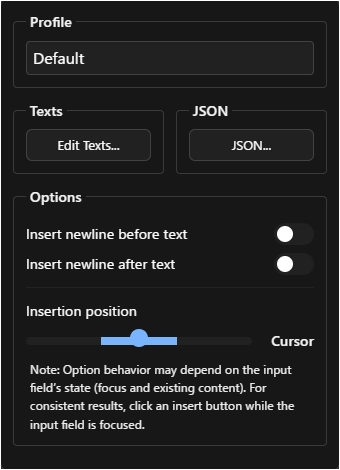
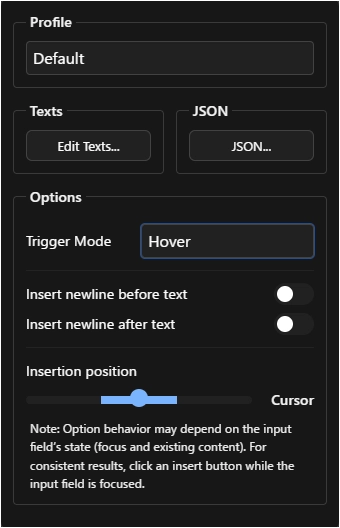
docs: update info for [QTB] v2.2.0

diff --git a/README.md b/README.md
@@ -20,6 +20,9 @@ Each script is developed independently and can be installed separately.
 
 ## Recent Updates
 
+### 2025/12/03
+- Updated `Quick Text Buttons` (v2.1.0 -> v2.2.0)
+
 ### 2025/12/02
 - Updated `ChatGPT UX Customizer`/`Gemini UX Customizer` (v2.0.0 -> v2.1.0)
 - Updated `Quick Text Buttons` (v2.0.0 -> v2.1.0)
@@ -61,11 +64,11 @@ A utility script that adds buttons to quickly insert predefined text or prompts.
 
 | Platform | GitHub | Greasy Fork | Version | Last Updated | Changelog |
 | :--- | :--- | :--- | :--- | :--- | :--- |
-| **ChatGPT** & **Gemini** | [![Download](https://img.shields.io/badge/Download-blue?style=flat-square&logo=download)](https://raw.githubusercontent.com/p65536/AI-UX-Customizer/main/scripts/Quick-Text-Buttons/Quick-Text-Buttons.user.js) | [![Greasy Fork](https://img.shields.io/badge/Install-green?style=flat-square&logo=greasyfork)](https://greasyfork.org/en/scripts/544699-quick-text-buttons) | 2.1.0 | 2025/12/02 | [View](./docs/Quick-Text-Buttons/CHANGELOG_QTBUX.md) |
+| **ChatGPT** & **Gemini** | [![Download](https://img.shields.io/badge/Download-blue?style=flat-square&logo=download)](https://raw.githubusercontent.com/p65536/AI-UX-Customizer/main/scripts/Quick-Text-Buttons/Quick-Text-Buttons.user.js) | [![Greasy Fork](https://img.shields.io/badge/Install-green?style=flat-square&logo=greasyfork)](https://greasyfork.org/en/scripts/544699-quick-text-buttons) | 2.2.0 | 2025/12/03 | [View](./docs/Quick-Text-Buttons/CHANGELOG_QTBUX.md) |
 
 **[View Detailed Features & Manual for Quick Text Buttons](./docs/Quick-Text-Buttons/README.md)**
 
-![Quick Text Buttons Showcase Image](./docs/Quick-Text-Buttons/images/qtb_button_hover.webp) 
+![Quick Text Buttons Showcase Image](./docs/Quick-Text-Buttons/images/qtb_open_textlist.webp) 
 
 ---
 

diff --git a/docs/Quick-Text-Buttons/README.md b/docs/Quick-Text-Buttons/README.md
@@ -31,17 +31,17 @@ Currently, it supports the following AI services:
 
 ## Screenshots
 
-### 1. Unified Action Button & Text Menu
+### 1. Text List
 
-When you hover over the button:  
-![Text Insertion Menu](./images/qtb_button_hover.webp)
+When you **Hover** (or **Click**, depending on settings) over the button:  
+![Text Insertion Menu](./images/qtb_open_textlist.webp)
 
 * **Perfect Match:** Works seamlessly with [**UX Customizer**](../UX-Customizer/README.md) to enhance the visual interface and navigation.
 
 ### 2. Settings Panel
 
-When you click the button:  
-![Settings Panel](./images/qtb_button_click.webp)
+When you Right-click the button:  
+![Settings Panel](./images/qtb_open_settings_panel.webp)
 
 ### 3. Text Editor Modal
 
@@ -52,8 +52,8 @@ When you click the button:
 ## How to Use
 
 * **Access**: The **Quick Text button** (pen icon) is located at the bottom-left of the chat input field.
-* **Insert Text**: **Hover** over the button to display the list of registered texts. Clicking an item will insert it into the input field.
-* **Settings**: **Click** the button to open the **Settings Panel**, where you can edit texts, manage profiles, and change options.
+* **Insert Text**: **Hover** (or **Click**, depending on settings) over the button to display the list of registered texts. Clicking an item will insert it into the input field.
+* **Settings**: **Right-click** the button to open the **Settings Panel**, where you can edit texts, manage profiles, and change options.
 * **Import/Export**: If needed, use the "JSON" button in the settings panel to export your current settings or import sample settings.
 
 ---

diff --git a/docs/Quick-Text-Buttons/settings.md b/docs/Quick-Text-Buttons/settings.md
@@ -2,12 +2,12 @@
 
 ## Settings Screen
 
-### 1. Click the Quick Text button to open the settings panel
+### 1. Right-Click the Quick Text button to open the settings panel
 
-The **Quick Text button** (pen icon) is located at the bottom-left of the chat input field.
-Clicking this button opens the settings panel (Hovering over it opens the text insertion list).
+The **Quick Text button** (pen icon) is located at the bottom-left of the chat input field.  
+Right-clicking this button opens the settings panel.
 
-Click the button:  
+Right-click the button:  
 ![Settings Panel](./images/qtb_button.webp)
 
 ### 2. Settings Panel Items
@@ -20,6 +20,7 @@ Click the button:
 | **Texts** | Opens the "Text Editor Modal" to create, edit, and delete texts. |
 | **JSON** | Opens the screen to directly edit, import, and export all settings in JSON format. |
 | **Options** | **Settings for text insertion behavior** |
+| `Trigger Mode` | Choose between "Hover" or "Click" to open the text list. |
 | `Insert newline before text` | Adds one newline character before inserting the text. |
 | `Insert newline after text` | Adds one newline character after inserting the text. |
 | `Insertion position` | Selects the text insertion position from "Start of the input field," "Current cursor position," or "End of the input field." |

diff --git a/docs/Quick-Text-Buttons/manual_json.md b/docs/Quick-Text-Buttons/manual_json.md
@@ -19,6 +19,7 @@ The following is a sample to illustrate the JSON structure. **Ready-to-use sampl
     "insert_before_newline": false,
     "insert_after_newline": false,
     "insertion_position": "end",
+    "trigger_mode": "hover",
     "activeProfileName": "Default"
   },
   "developer": {
@@ -61,7 +62,8 @@ The following is a sample to illustrate the JSON structure. **Ready-to-use sampl
 | :--- | :--- | :--- | :--- |
 | `insert_before_newline` | Whether to add a newline before inserting text | `false` | `true` / `false` |
 | `insert_after_newline` | Whether to add a newline after inserting text | `false` | `true` / `false` |
-| `insertion_position` | The position where the text is inserted | `"cursor"` | `"start"`: Beginning of the input field\<br\>`"cursor"`: Current cursor position\<br\>`"end"`: End of the input field |
+| `insertion_position` | The position where the text is inserted | `"cursor"` | `"start"`: Beginning of the input field<br>`"cursor"`: Current cursor position<br>`"end"`: End of the input field |
+| `trigger_mode` | Determines how the text list is opened | `"hover"` | `"hover"`: Mouse over<br>`"click"`: Click |
 | `activeProfileName` | The name of the currently active profile | `"Default"` | A string specifying a profile name that exists within the `texts` object. |
 
 ---

diff --git a/docs/Quick-Text-Buttons/CHANGELOG_QTBUX.md b/docs/Quick-Text-Buttons/CHANGELOG_QTBUX.md
@@ -1,5 +1,18 @@
 # Changelog
 
+## [2.2.0] - 2025-12-03
+- **New Features**
+  - Added a **Trigger Mode** option to the settings panel. Users can now choose between "Hover" (default) or "Click" to open the text list.
+  - Added support for **Right-clicking** the insert button to quickly open the settings panel, regardless of the selected trigger mode.
+- **Improvements**
+  - The insert button's tooltip now dynamically updates to indicate the current interaction mode.
+- **Fixes**
+  - Fixed a race condition where global event listeners could persist if the text list was toggled rapidly.
+  - Fixed an issue where the text list or settings panel would remain visible after navigating to a different chat URL.
+  - Fixed various resource leaks to prevent memory issues and improve long-term stability.
+- **Miscellaneous**
+  - Updated the script icon.
+
 ## [2.1.0] - 2025-12-02
 - **UI Improvements**
   - **[Modal Standardization]**
